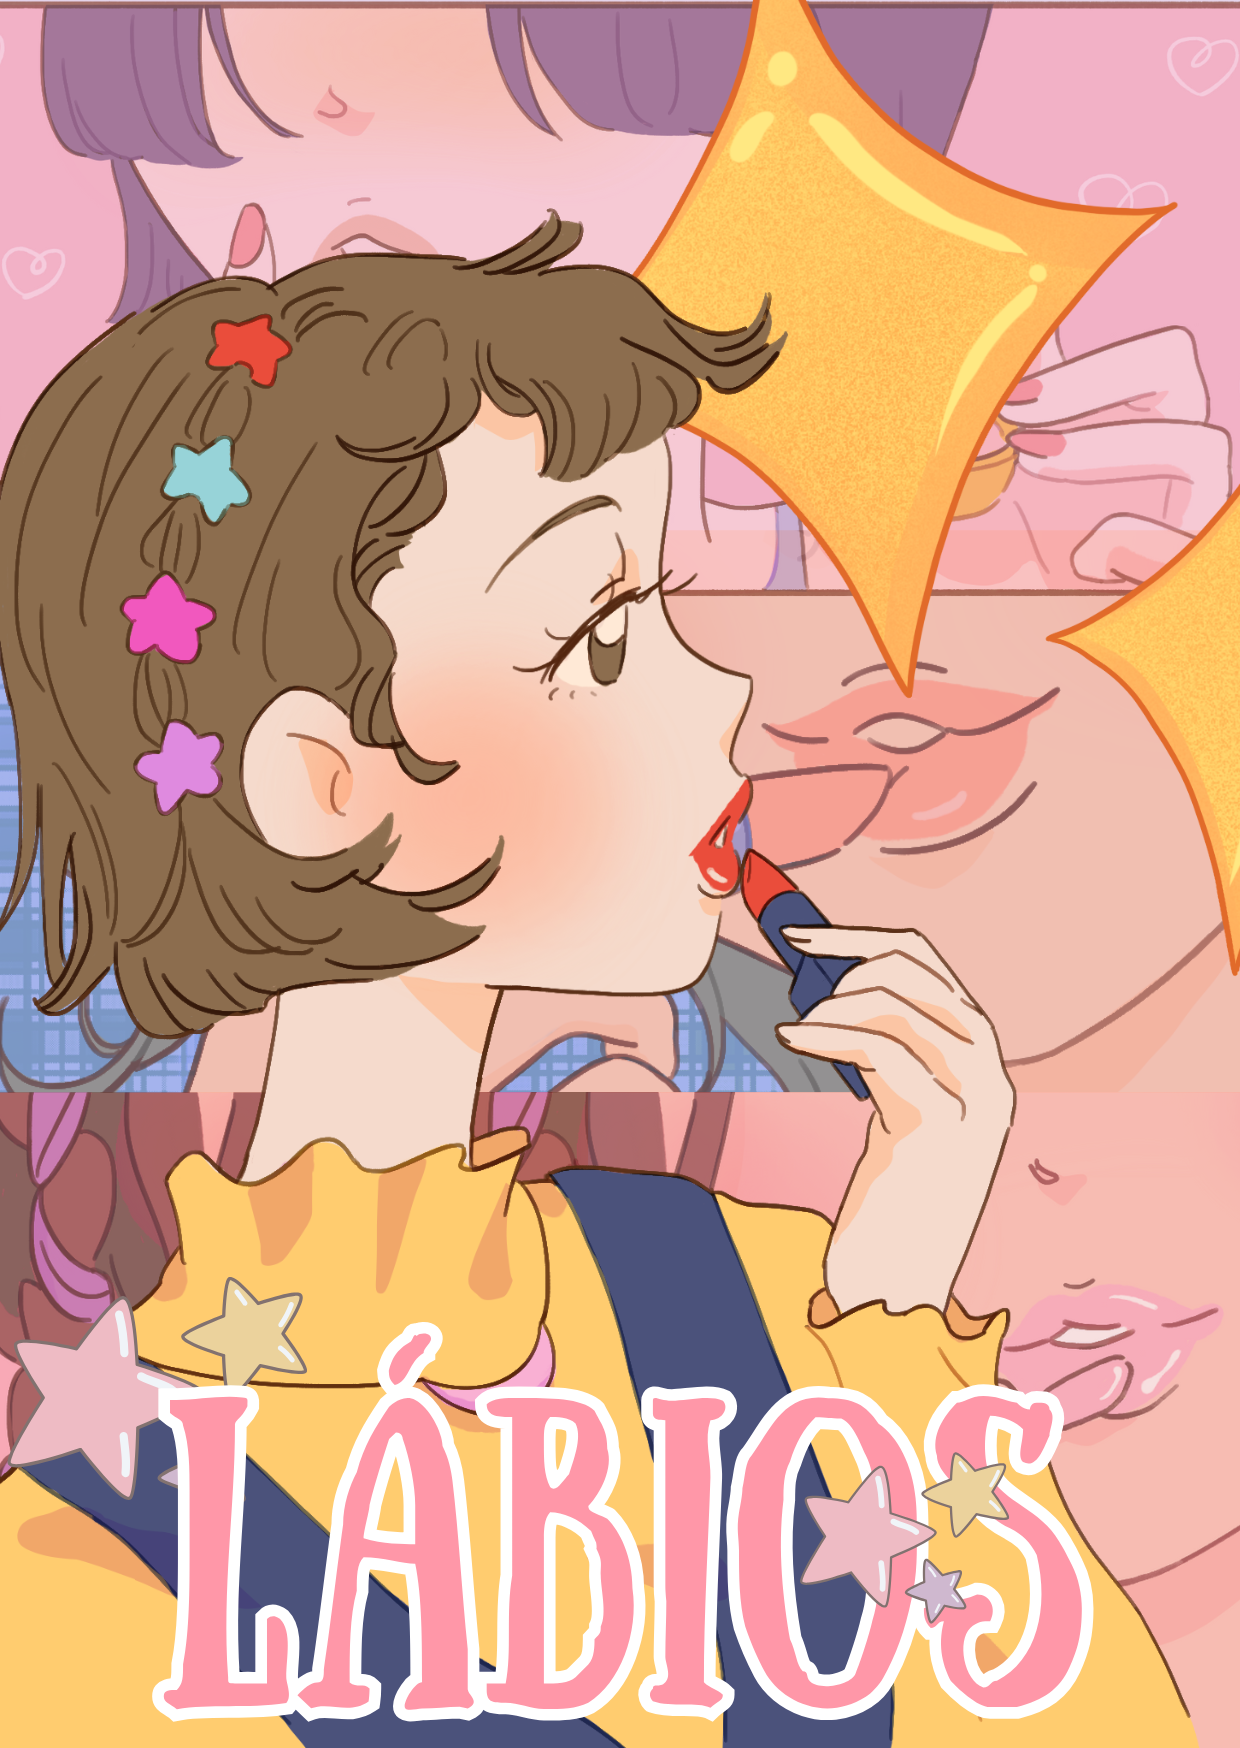
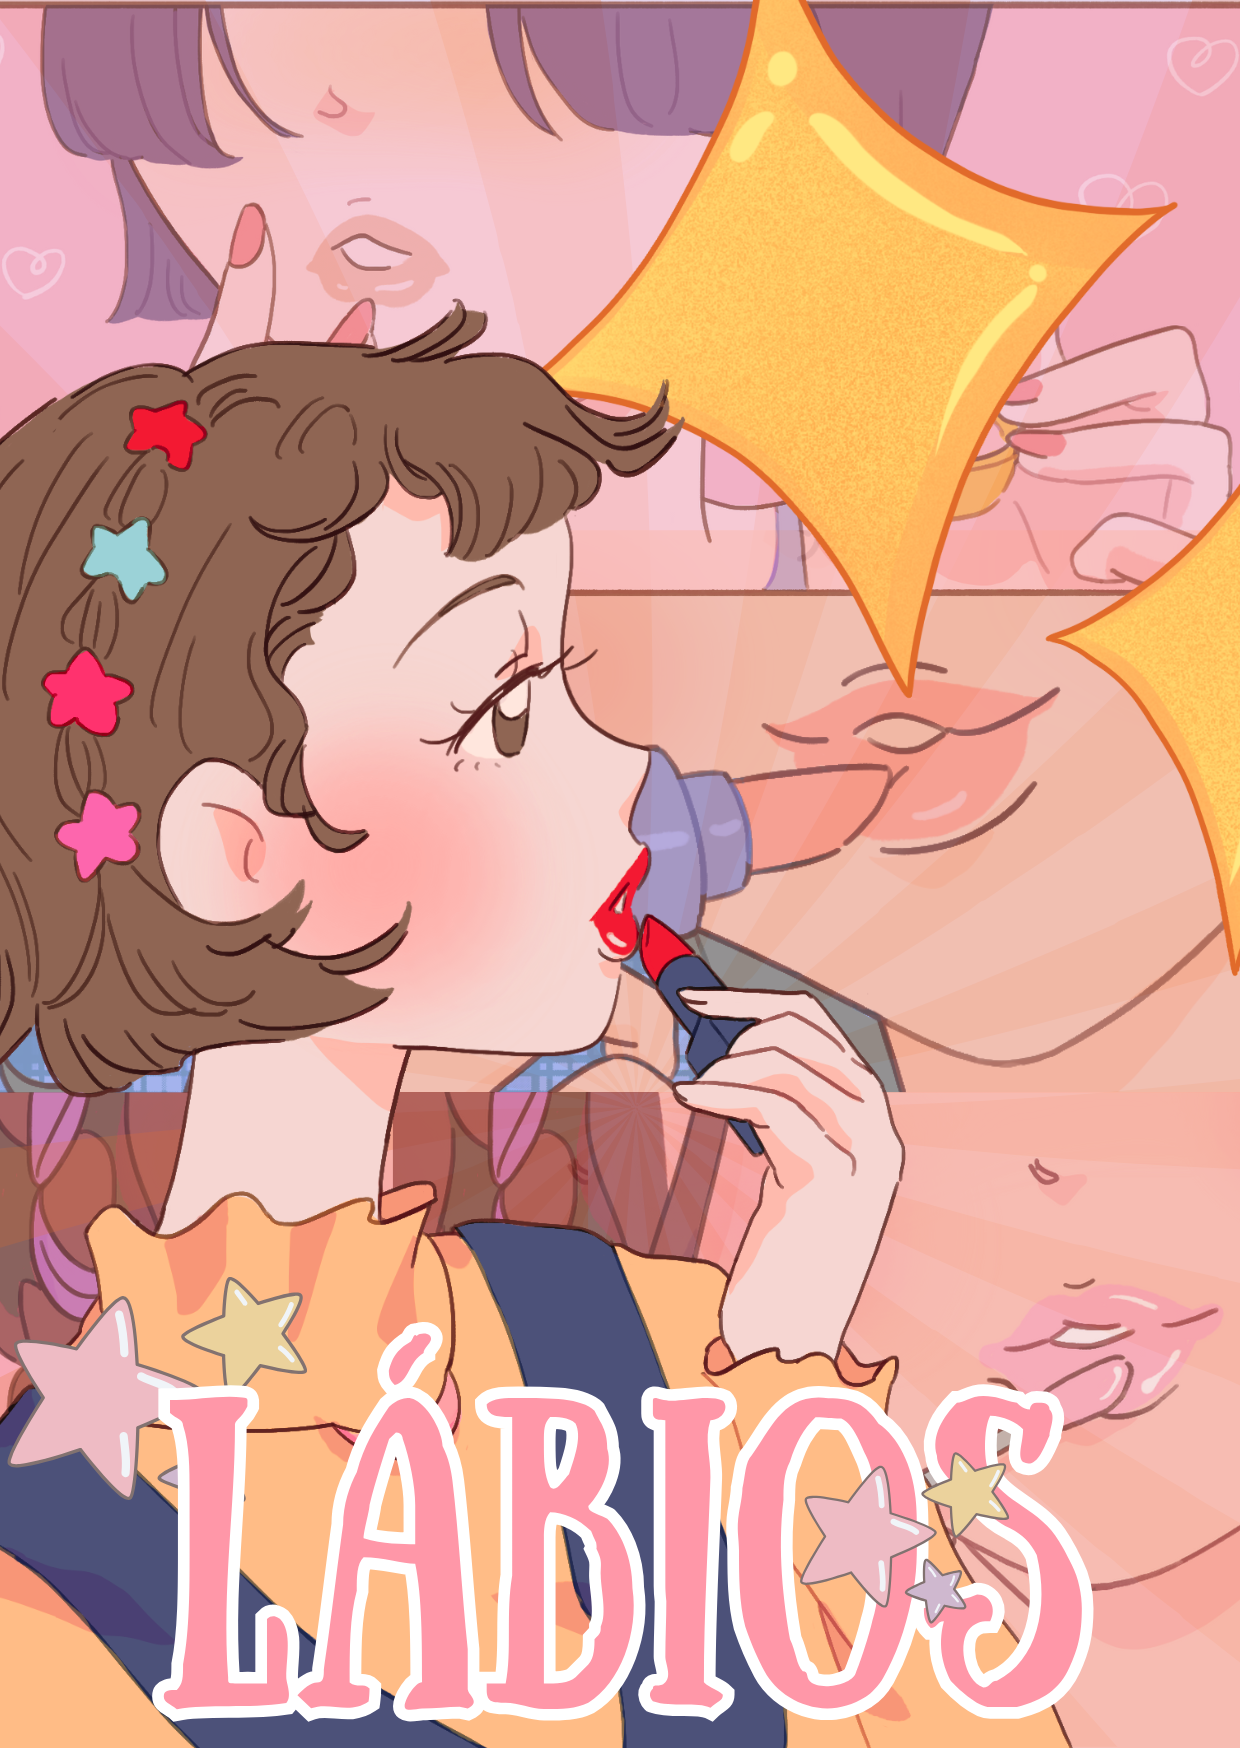
bom dia

diff --git a/index.html b/index.html
@@ -27,7 +27,7 @@
             </button>
 
             <button class="login">
-                <img class="botão-perfil" src="https://img.icons8.com/?size=100&id=61050&format=png&color=000000"
+                <img class="botão-perfil" src="https://img.icons8.com/?size=100&id=b2DXU0pj5jFw&format=png&color=000000"
                     alt="botão de entrada de login do usuário" />
             </button>
         </nav> <!--termino da barra de navegation-->
@@ -141,7 +141,7 @@
           <!--AQUI COMEÇA A VITRINE DOISSSSSSSSSSSSSSSSSSSSSSSS -->
         <section class="vitrine2">
             <div>
-                <img src="TEMPLATES/poster-sombras.png" alt="poster mostrando um design de uma moça de cabelos azuis passando produto de maquiagem para olhos no olho, a mana é mt linda" class="modelo-sombras">
+                <img src="TEMPLATES/poster-rosto.png" alt="poster mostrando um design de uma moça de cabelos azuis passando produto de maquiagem para olhos no olho, a mana é mt linda" class="modelo-sombras">
             </div>
             <header class="titulo-produtos-vt2">Produtos Sugeridos｡⋆｡˚</header>
             <div class="produtos">
